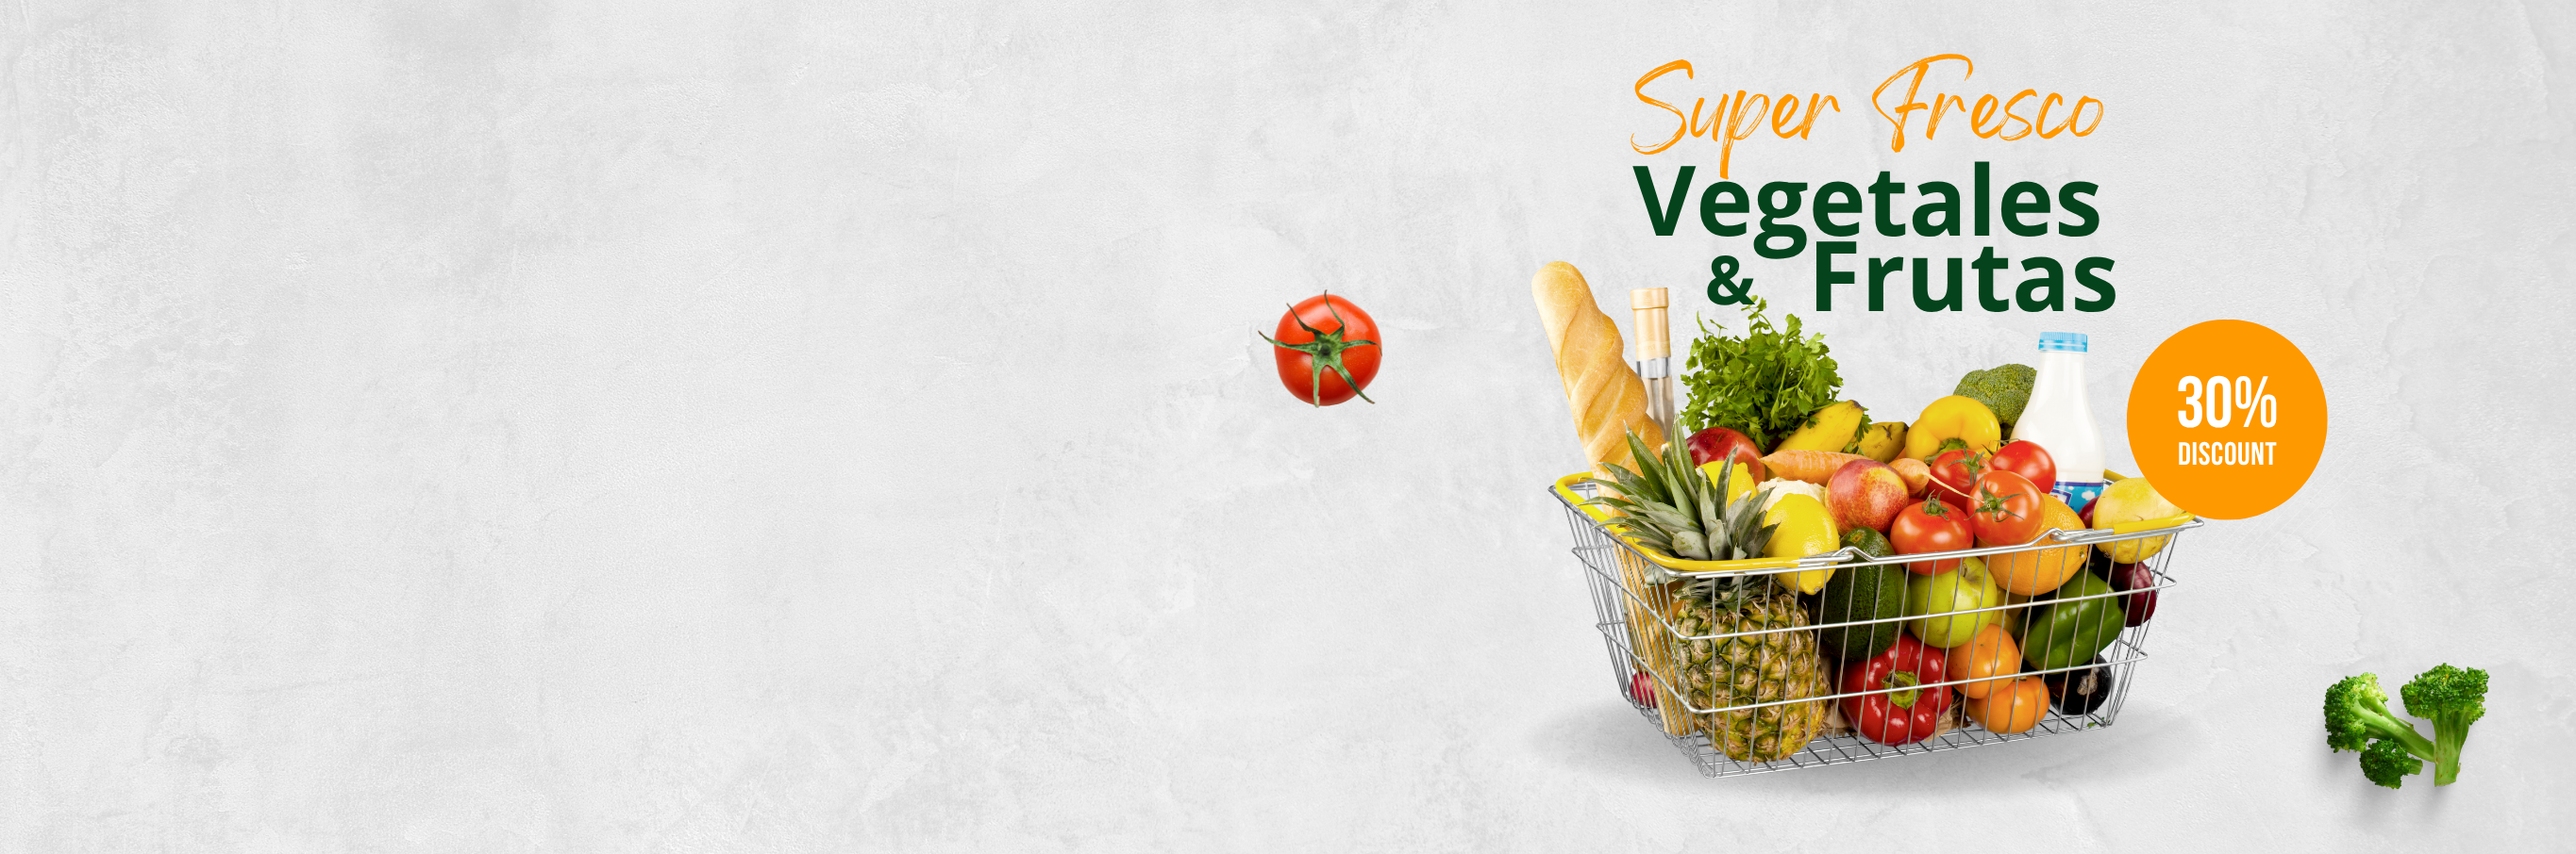
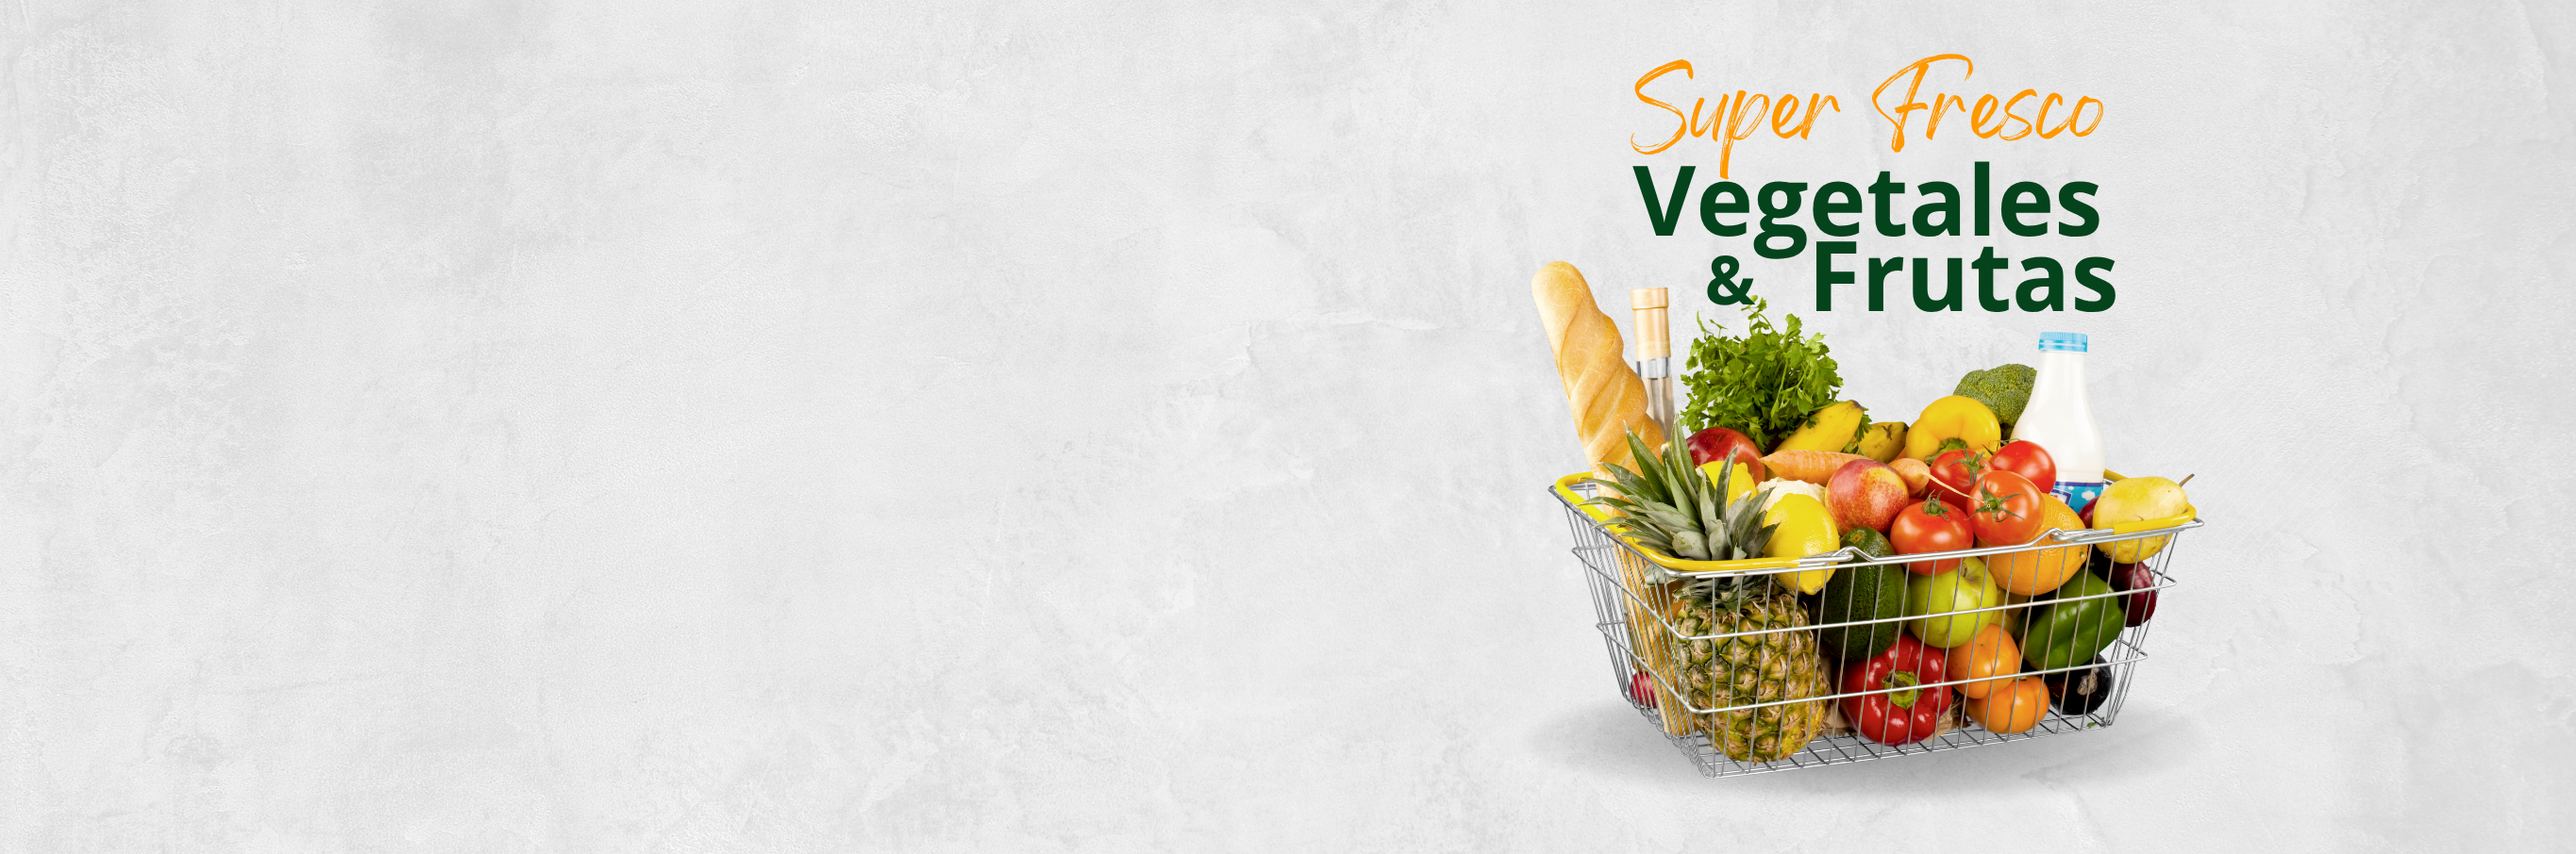
cambios y mas cambios -_-!

Changed region(s): [[0.8095, 0.3709, 0.9029, 0.6181], [0.9029, 0.7726, 0.9652, 0.9581], [0.467, 0.34, 0.5604, 0.4945]]

diff --git a/output.css b/output.css
@@ -93,6 +93,7 @@
     --radius-md: 0.375rem;
     --radius-lg: 0.5rem;
     --radius-2xl: 1rem;
+    --ease-in-out: cubic-bezier(0.4, 0, 0.2, 1);
     --animate-pulse: pulse 2s cubic-bezier(0.4, 0, 0.6, 1) infinite;
     --default-transition-duration: 150ms;
     --default-transition-timing-function: cubic-bezier(0.4, 0, 0.2, 1);
@@ -279,8 +280,41 @@
   .top-13 {
     top: calc(var(--spacing) * 13);
   }
+  .top-15 {
+    top: calc(var(--spacing) * 15);
+  }
   .top-16 {
     top: calc(var(--spacing) * 16);
+  }
+  .top-17 {
+    top: calc(var(--spacing) * 17);
+  }
+  .top-20 {
+    top: calc(var(--spacing) * 20);
+  }
+  .top-27 {
+    top: calc(var(--spacing) * 27);
+  }
+  .top-33 {
+    top: calc(var(--spacing) * 33);
+  }
+  .top-37 {
+    top: calc(var(--spacing) * 37);
+  }
+  .top-38 {
+    top: calc(var(--spacing) * 38);
+  }
+  .top-40 {
+    top: calc(var(--spacing) * 40);
+  }
+  .top-48 {
+    top: calc(var(--spacing) * 48);
+  }
+  .top-50 {
+    top: calc(var(--spacing) * 50);
+  }
+  .top-54 {
+    top: calc(var(--spacing) * 54);
   }
   .top-60 {
     top: calc(var(--spacing) * 60);
@@ -300,8 +334,14 @@
   .top-90 {
     top: calc(var(--spacing) * 90);
   }
+  .top-96 {
+    top: calc(var(--spacing) * 96);
+  }
   .top-100 {
     top: calc(var(--spacing) * 100);
+  }
+  .top-120 {
+    top: calc(var(--spacing) * 120);
   }
   .-right-1 {
     right: calc(var(--spacing) * -1);
@@ -321,17 +361,134 @@
   .right-5 {
     right: calc(var(--spacing) * 5);
   }
+  .right-6 {
+    right: calc(var(--spacing) * 6);
+  }
+  .right-8 {
+    right: calc(var(--spacing) * 8);
+  }
+  .right-10 {
+    right: calc(var(--spacing) * 10);
+  }
+  .right-11 {
+    right: calc(var(--spacing) * 11);
+  }
+  .right-13 {
+    right: calc(var(--spacing) * 13);
+  }
+  .right-15 {
+    right: calc(var(--spacing) * 15);
+  }
+  .right-20 {
+    right: calc(var(--spacing) * 20);
+  }
+  .right-25 {
+    right: calc(var(--spacing) * 25);
+  }
+  .right-30 {
+    right: calc(var(--spacing) * 30);
+  }
+  .right-40 {
+    right: calc(var(--spacing) * 40);
+  }
+  .right-46 {
+    right: calc(var(--spacing) * 46);
+  }
+  .right-50 {
+    right: calc(var(--spacing) * 50);
+  }
+  .right-74 {
+    right: calc(var(--spacing) * 74);
+  }
+  .right-79 {
+    right: calc(var(--spacing) * 79);
+  }
+  .right-80 {
+    right: calc(var(--spacing) * 80);
+  }
+  .right-86 {
+    right: calc(var(--spacing) * 86);
+  }
+  .right-90 {
+    right: calc(var(--spacing) * 90);
+  }
+  .right-96 {
+    right: calc(var(--spacing) * 96);
+  }
+  .right-99 {
+    right: calc(var(--spacing) * 99);
+  }
+  .right-100 {
+    right: calc(var(--spacing) * 100);
+  }
+  .right-150 {
+    right: calc(var(--spacing) * 150);
+  }
+  .right-156 {
+    right: calc(var(--spacing) * 156);
+  }
+  .right-158 {
+    right: calc(var(--spacing) * 158);
+  }
+  .right-160 {
+    right: calc(var(--spacing) * 160);
+  }
+  .right-168 {
+    right: calc(var(--spacing) * 168);
+  }
+  .right-180 {
+    right: calc(var(--spacing) * 180);
+  }
+  .right-190 {
+    right: calc(var(--spacing) * 190);
+  }
+  .-bottom-2 {
+    bottom: calc(var(--spacing) * -2);
+  }
+  .-bottom-3 {
+    bottom: calc(var(--spacing) * -3);
+  }
   .bottom-0 {
     bottom: calc(var(--spacing) * 0);
   }
+  .bottom-2 {
+    bottom: calc(var(--spacing) * 2);
+  }
+  .bottom-3 {
+    bottom: calc(var(--spacing) * 3);
+  }
   .bottom-4 {
     bottom: calc(var(--spacing) * 4);
+  }
+  .bottom-12 {
+    bottom: calc(var(--spacing) * 12);
   }
   .left-0 {
     left: calc(var(--spacing) * 0);
   }
   .left-4 {
     left: calc(var(--spacing) * 4);
+  }
+  .left-10 {
+    left: calc(var(--spacing) * 10);
+  }
+  .left-30 {
+    left: calc(var(--spacing) * 30);
+  }
+  .left-50 {
+    left: calc(var(--spacing) * 50);
+  }
+  .left-60 {
+    left: calc(var(--spacing) * 60);
+  }
+  .left-70 {
+    left: calc(var(--spacing) * 70);
+  }
+  .left-74 {
+    left: calc(var(--spacing) * 74);
+  }
+  .left-80 {
+    left: calc(var(--spacing) * 80);
   }
   .z-10 {
     z-index: 10;
@@ -504,6 +661,9 @@
   .h-30 {
     height: calc(var(--spacing) * 30);
   }
+  .h-32 {
+    height: calc(var(--spacing) * 32);
+  }
   .h-\[50\%\] {
     height: 50%;
   }
@@ -564,6 +724,9 @@
   .w-16 {
     width: calc(var(--spacing) * 16);
   }
+  .w-17 {
+    width: calc(var(--spacing) * 17);
+  }
   .w-18 {
     width: calc(var(--spacing) * 18);
   }
@@ -579,6 +742,9 @@
   .w-30 {
     width: calc(var(--spacing) * 30);
   }
+  .w-32 {
+    width: calc(var(--spacing) * 32);
+  }
   .w-33 {
     width: calc(var(--spacing) * 33);
   }
@@ -588,8 +754,17 @@
   .w-37 {
     width: calc(var(--spacing) * 37);
   }
+  .w-40 {
+    width: calc(var(--spacing) * 40);
+  }
+  .w-45 {
+    width: calc(var(--spacing) * 45);
+  }
   .w-48 {
     width: calc(var(--spacing) * 48);
+  }
+  .w-50 {
+    width: calc(var(--spacing) * 50);
   }
   .w-64 {
     width: calc(var(--spacing) * 64);
@@ -1396,6 +1571,10 @@
     --tw-duration: 300ms;
     transition-duration: 300ms;
   }
+  .ease-in-out {
+    --tw-ease: var(--ease-in-out);
+    transition-timing-function: var(--ease-in-out);
+  }
   .group-hover\:bg-blue-200 {
     &:is(:where(.group):hover *) {
       @media (hover: hover) {
@@ -2087,6 +2266,16 @@
       padding-inline: calc(var(--spacing) * 8);
     }
   }
+  .dark\:flex {
+    &:where(.dark, .dark *) {
+      display: flex;
+    }
+  }
+  .dark\:hidden {
+    &:where(.dark, .dark *) {
+      display: none;
+    }
+  }
   .dark\:divide-gray-700 {
     &:where(.dark, .dark *) {
       :where(& > :not(:last-child)) {
@@ -2650,6 +2839,10 @@
   syntax: "*";
   inherits: false;
 }
+@property --tw-ease {
+  syntax: "*";
+  inherits: false;
+}
 @property --tw-scale-x {
   syntax: "*";
   inherits: false;
@@ -2710,6 +2903,7 @@
       --tw-ring-offset-shadow: 0 0 #0000;
       --tw-outline-style: solid;
       --tw-duration: initial;
+      --tw-ease: initial;
       --tw-scale-x: 1;
       --tw-scale-y: 1;
       --tw-scale-z: 1;

diff --git a/index.html b/index.html
@@ -536,6 +536,15 @@
         <div
           class="absolute bottom-0 left-0 w-full button-0 h-16 bg-gradient-to-t from-[#eeeeee]/100 to-transparent dark:from-[#100e10]/100"
         ></div>
+        <img src="./img/hierva-buena.png" alt="" class="w-20 absolute botton-10 left-80 dark:hidden">
+        <img src="./img/tomate.png" alt="" class="  w-18 absolute top-38 right-158 dark:hidden">
+        <img src="./img/brocoli.png" alt="" class=" w-20 absolute botton-10 right-15 dark:hidden">
+        <img src="./img/tomate2.png" alt="" class="hidden  w-20 absolute -bottom-3 left-74 dark:flex">
+        <img src="./img/hoja1.png" alt="" class="hidden  w-20 absolute top-54 right-156 dark:flex">
+        <img src="./img/hoja2.png" alt="" class="hidden  w-16 absolute botton-10 right-10 dark:flex">
+        <img src="./img/anuncio.png" alt="" class="hidden  w-45 absolute bottom-3 right-46 dark:flex">
+        <img src="./img/Descuento1.png" alt="" class="hidden float-loop w-40 absolute top-17 right-100 dark:flex">
+        <img src="./img/Descuento2.png" alt="" class="float-loop w-40 absolute top-33 right-25 dark:hidden">
       </section>
 
       <!-- Carrusel de categorías -->

diff --git a/style/style.css b/style/style.css
@@ -168,3 +168,19 @@
   font-weight: 700;
   font-style: normal;
 }
+
+/* flotante */
+
+.float-loop {
+  animation: floatY 5s ease-in-out infinite;
+}
+
+@keyframes floatY {
+  0%,
+  100% {
+    transform: translateY(0);
+  }
+  50% {
+    transform: translateY(30px);
+  }
+}
